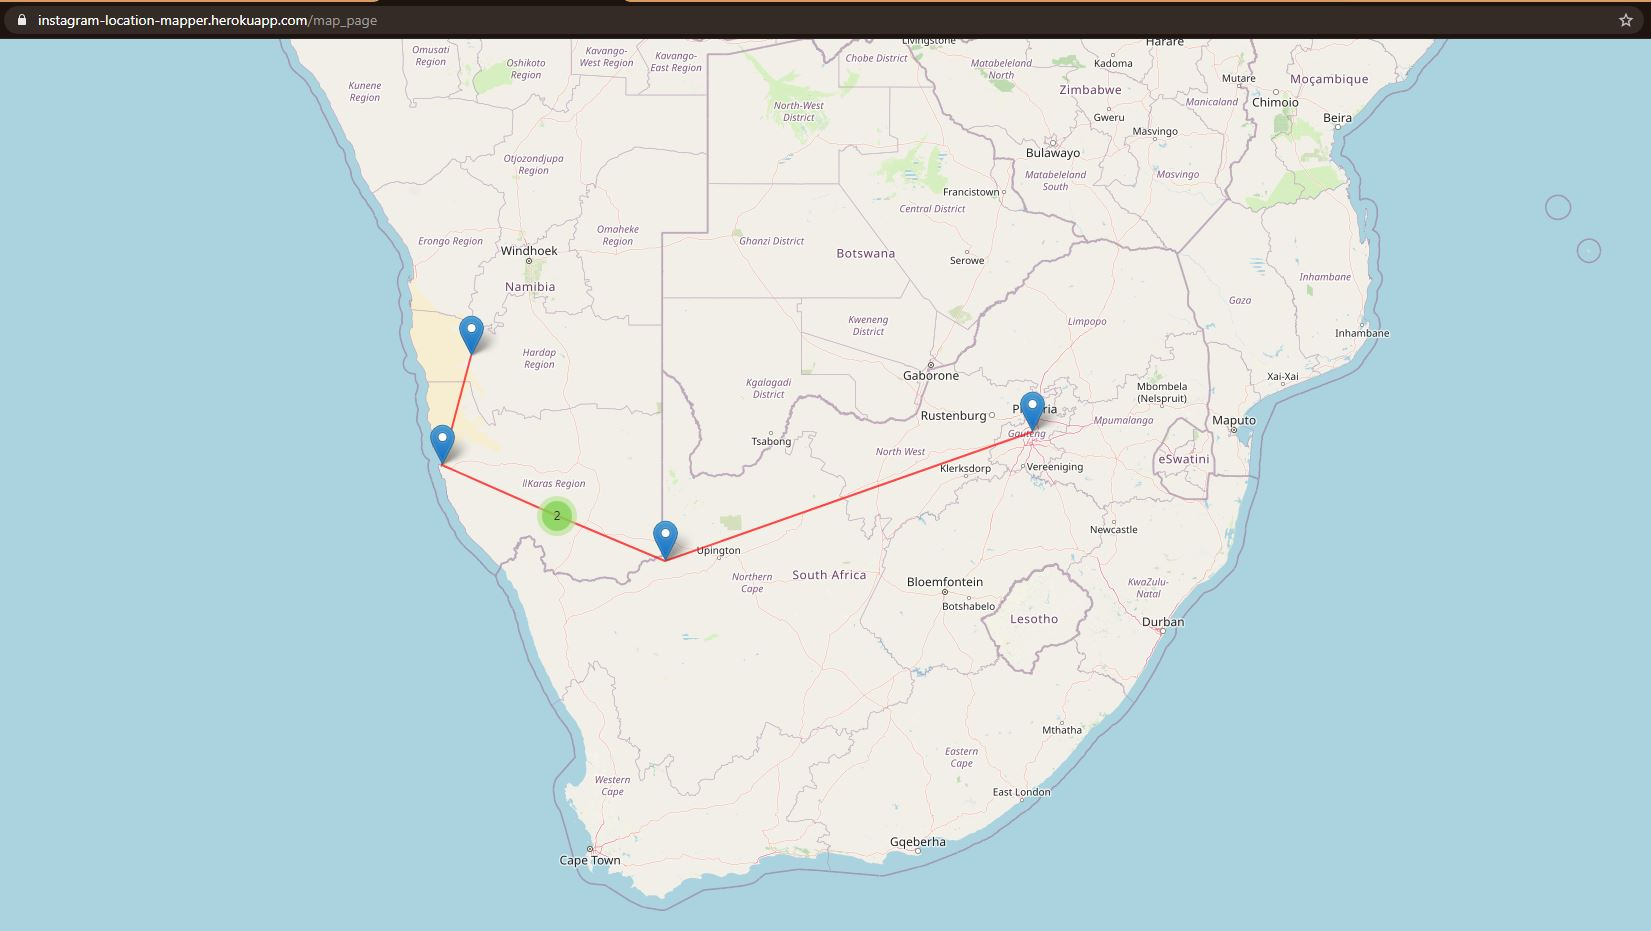
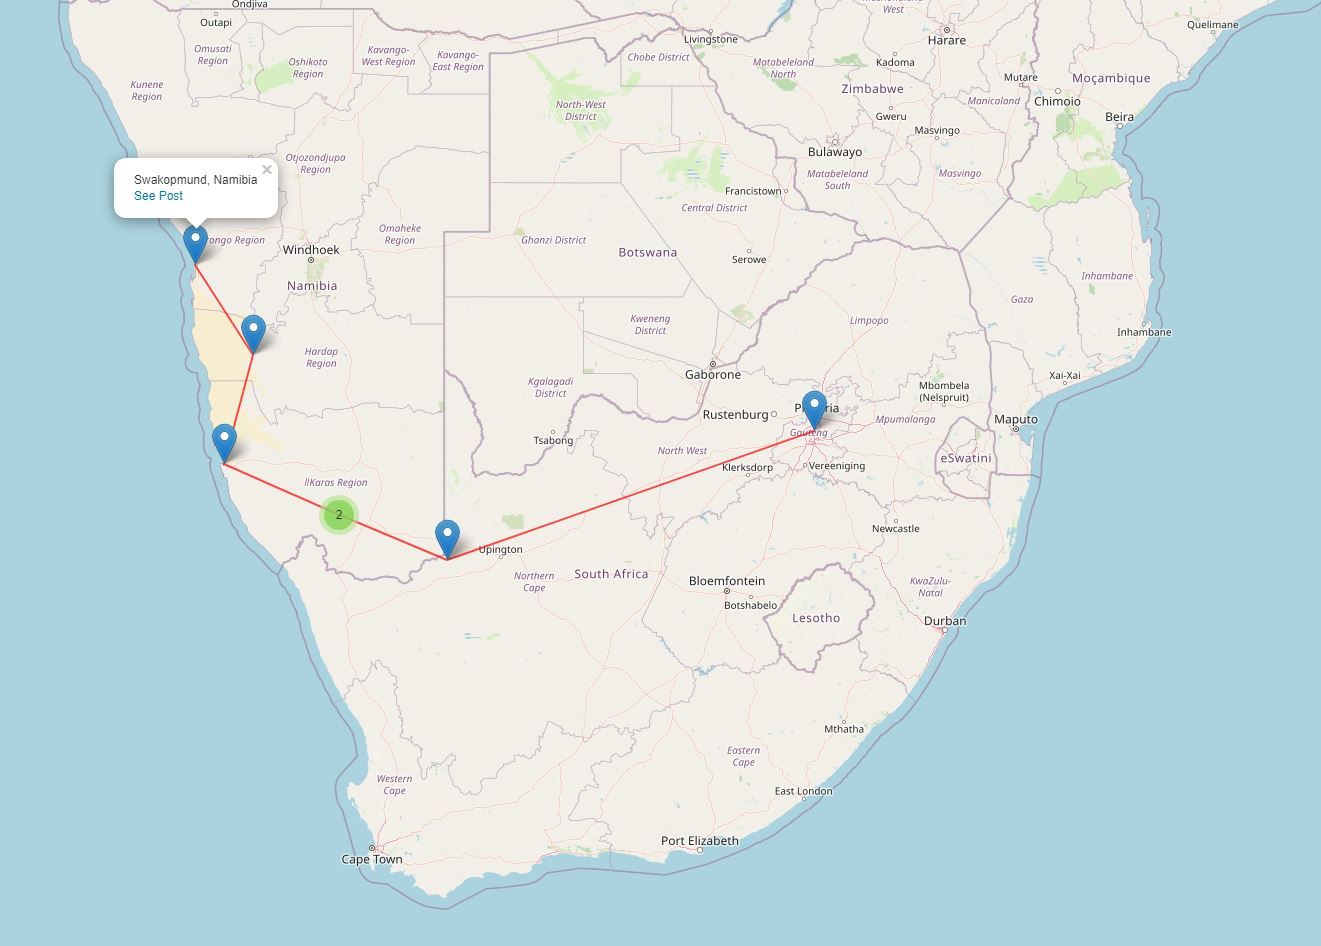
Added Database -increase functionality, more stable

diff --git a/data_check.py b/data_check.py
@@ -1,0 +1,136 @@
+import sqlite3
+from scrape import Scrape
+from scrape_last import ScrapeLast
+
+
+class DataCheck:
+
+    def __init__(self, handle):
+        self.handle = handle
+
+    def db_check(self):
+        outdated = True
+        while outdated:
+            # Try table read otherwise create
+            try:
+                connection = sqlite3.connect("posts.db")
+                cursor = connection.cursor()
+                sql = f"""SELECT * FROM "{self.handle}" """
+                cursor.execute(sql)
+                result = cursor.fetchall()
+                connection.close()
+                # Try table read otherwise populate
+                try:
+                    print(result)
+                    print(result[-1])
+                    last_location_data = result[-1][0]
+                    print(f"Database last recorded location: {last_location_data}")
+
+                    last_location = ScrapeLast(self.handle).get_last()[0]
+                    print(f"Instagram last posted location: {last_location}")
+
+                        # Check up to date
+                    if last_location_data == last_location:
+                        print("Database is up to date!")
+                        outdated = False
+
+                    else:
+                        print("Uh oh! we need to update table")
+
+                        # scrape latest data
+                        print(f"Starting  Scrape: @{self.handle}")
+
+                        data = Scrape(self.handle).get_locations()
+                        locations = data[0]
+                        links = data[1]
+                        latitudes = data[2]
+                        longitudes = data[3]
+                        print(locations[0])
+                        connection = sqlite3.connect("posts.db")
+                        for i in range(0, len(locations), 1):
+                            try:
+                                sql = f"""INSERT INTO `{self.handle}` (`location`,`link`,`latitude`,`longitude`) VALUES ("{locations[i]}","{links[i]}","{latitudes[i]}","{longitudes[i]}")"""
+                                print(sql)
+                                connection.execute(sql)
+                                connection.commit()
+                                # print("Table populated")
+                                # connection.close()
+                            except:
+                                pass
+
+                        print("Table updated")
+                        outdated = False
+                        connection.close()
+                        print("connection closed")
+
+                    # is up to date
+                    # else:
+                    #     print("Table up to date!")
+                    #     outdated = False
+                    #     connection.close()
+                    # except:
+                    #     print("Uh oh! we need to populate the table for the first time")
+                    #     # scrape latest data
+                    #     # print(handle)
+                    #     data = Scrape(self.handle).get_locations()
+                    #     locations = data[0]
+                    #     links = data[1]
+                    #     latitudes = data[2]
+                    #     longitudes = data[3]
+                    #     print(locations[0][0])
+                    #
+                    #     for i in range(0, len(locations), 1):
+                    #         # Convert address to coordinates
+                    #         try:
+                    #             connection = sqlite3.connect("posts.db")
+                    #             sql = f"""INSERT INTO `{self.handle}` (`location`,`link`,`latitude`,`longitude`) VALUES ("{locations[i]}","{links[i]}","{latitudes[i]}","{longitudes[i]}")"""
+                    #             print(sql)
+                    #             connection.execute(sql)
+                    #             connection.commit()
+                    #             print("Table populated")
+                    #             connection.close()
+                    #         except:
+                    #             pass
+                # Populate
+                except:
+                    print("Uh oh! we need to populate the table for the first time")
+
+
+                    # scrape latest data
+                    print(f"Starting  Scrape: @{self.handle}")
+
+                    data = Scrape(self.handle).get_locations()
+                    locations = data[0]
+                    links = data[1]
+                    latitudes = data[2]
+                    longitudes = data[3]
+                    print(locations[0])
+                    connection = sqlite3.connect("posts.db")
+                    for i in range(0, len(locations), 1):
+                        try:
+                            sql = f"""INSERT INTO `{self.handle}` (`location`,`link`,`latitude`,`longitude`) VALUES ("{locations[i]}","{links[i]}","{latitudes[i]}","{longitudes[i]}")"""
+                            print(sql)
+                            connection.execute(sql)
+                            connection.commit()
+                            # print("Table populated")
+                            # connection.close()
+                        except:
+                            pass
+
+
+            # create table
+            except:
+                print("table needs to be created")
+                # create table
+                sql = f"""CREATE TABLE "{self.handle}" ("location" REAL UNIQUE, "link" REAL UNIQUE, "latitude" REAL UNIQUE, "longitude" REAL UNIQUE);"""
+                print(sql)
+                connection = sqlite3.connect("posts.db")
+                connection.execute(sql)
+                connection.commit()
+                connection.close()
+                print("Table created")
+                # print("Error, table already exists or error with database")
+
+
+if __name__ == "__main__":
+    datacheck = DataCheck("photos").db_check()

diff --git a/main.py b/main.py
@@ -4,15 +4,13 @@ from flask_mobility import Mobility
 from flask_mobility.decorators import mobilized
 from flask_styleguide import Styleguide
 from wtforms import Form, StringField, SubmitField
-
+from mapgen import GenMap
+from data_check import DataCheck
 
 # Create app instance
 app = Flask(__name__)
 styleguide = Styleguide(app)
 Mobility(app)
-
-from mapgen import GenMap
-from scrape import Scrape
 
 # Pages
 
@@ -30,16 +28,15 @@ class HomePage(MethodView):
 class MapPage(MethodView):
     # post input from home page
     def post(self):
-        # draw inputs, get handle, scrape location addresses
+        # draw inputs, get handle, scrape location addresses,
+
         handle_form = HandleForm(request.form)
         handle = str(handle_form.handle.data)
-        locations = Scrape(handle).get_locations()[0]
-        links = Scrape(handle).get_locations()[1]
-      
-        # create map and marker cluster instances
-        my_map = GenMap(locations=locations, links=links)
+        DataCheck(handle).db_check()
+        my_map = GenMap(handle=handle)
         my_map.gen_map()
-        return render_template('map_locations.html')
+        map_name=f"map_{handle}.html"
+        return render_template(map_name)
 
 
 class AboutPage(MethodView):
@@ -53,7 +50,7 @@ class AboutPage(MethodView):
 
 # Form
 class HandleForm(Form):
-    handle = StringField("Enter handle: @", default="4x4theboiz")
+    handle = StringField("Enter handle: @", default="travel")
     button = SubmitField("Generate Map")
     button_about = SubmitField("Learn More")
 
@@ -65,4 +62,4 @@ app.add_url_rule('/about_page', view_func=AboutPage.as_view('about_page'))
 
 # Run
 if __name__ == '__main__':
-    app.run()
+    app.run(debug=True)

diff --git a/scrape_last.py b/scrape_last.py
@@ -1,0 +1,42 @@
+import requests
+from bs4 import BeautifulSoup
+
+
+# Create Variables
+class ScrapeLast:
+
+    def __init__(self, handle):
+        self.handle = handle
+
+    def get_last(self):
+        base_url = "https://www.picuki.com/profile/" + self.handle
+        r = requests.get(base_url,
+                         headers={
+                             'User-agent': 'Mozilla/5.0 (X11; Ubuntu; Linux x86_64; rv:61.0) Gecko/20100101 Firefox/61.0'})
+        c = r.content
+        soup = BeautifulSoup(c, "html.parser")
+        last_loc = soup.find_all("div", {"class": "photo-location"})
+        last_location = []
+        # Add unique locations to list
+
+        for i in range(0, len(last_loc), 1):
+            xx = last_loc[i].text.replace("\n", "")
+            if xx not in last_location:
+                if xx != '':
+                    while len(last_location) < 1:
+                        last_location.append(xx)
+                    else:
+                        pass
+                else:
+                    pass
+            else:
+                pass
+        return last_location
+
+
+if __name__ == "__main__":
+    handle = str(input("Please enter handle of user: ") or '4x4theboiz')
+    print(handle)
+    point1 = ScrapeLast(handle=handle)
+    address = point1.get_last()
+    print(address[0])
